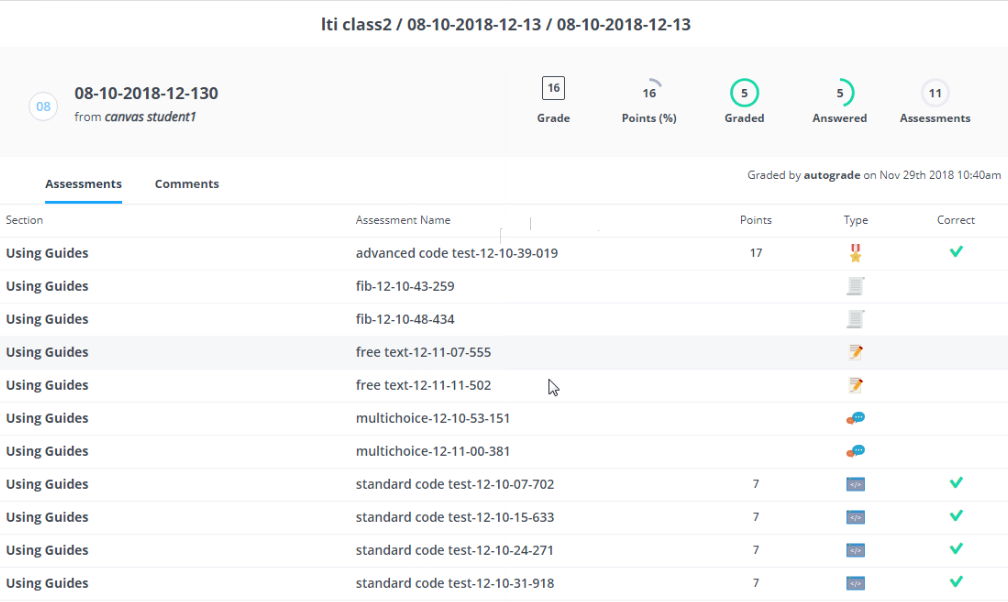
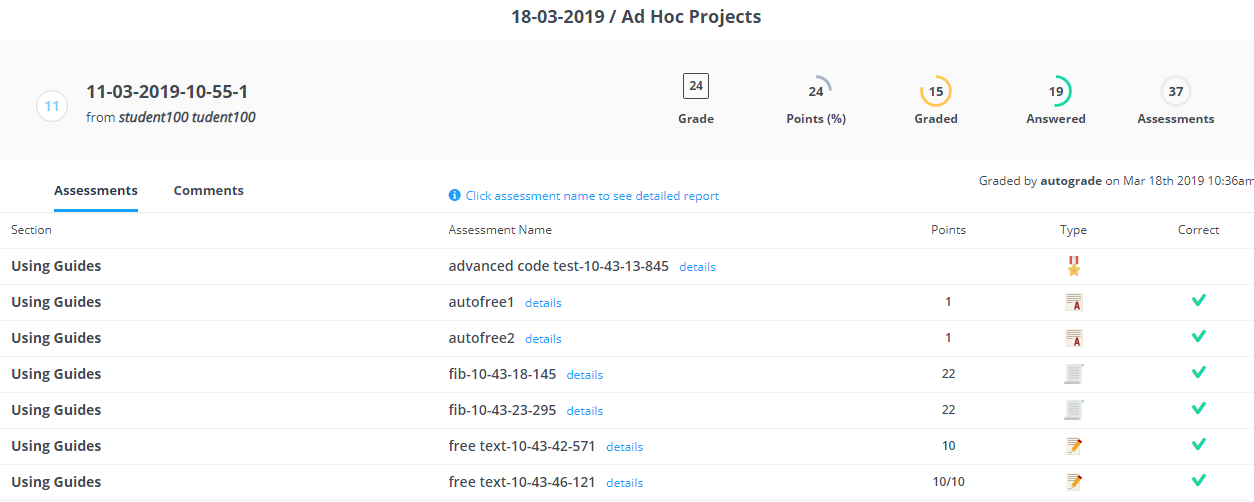
changelog #10290 #10317, update feedback image

diff --git a/source/docs/misc/changelog.html.md b/source/docs/misc/changelog.html.md
@@ -13,6 +13,8 @@ We do not report small bug fixes or issues that affect individual users, who we 
 
 **March 2019**
 
+- `[I] [20th]`: Improve handling of adding teachers to class
+- `[I] [19th]`: Fix problem with teachers not able to access students projects after deadline passed
 - `[I] [15th]`: Fix problem for student feedback when unit running in iFrame
 - `[I] [15th]`: Fix issue with students able to start units after deadline is past
 - `[I] [15th]`: Remove menu item "Submit Jupyter assessments" from jupyter units
@@ -97,10 +99,12 @@ We do not report small bug fixes or issues that affect individual users, who we 
 - `[I] [14th]`: Add additional fields for students answers into the [download csv](/docs/classes/monitor/progress#downloadcsv)
 - `[I] [11th]`: Improve handling of [gigabox](/docs/classes/classmanagement/giga/) allocation when run from a course
 - `[I] [10th]`: Fix problem with Advanced Code Test with Custom language type and Allow Partial Points
-- `[I] [ 7th]`: Add answer and rationale fields to [grading feedback](/docs/dashboard/student/gradefeeback) for student dashboard
+- `[I] [ 7th]`: Add answer and rationale fields to [grading feedback](/docs/dashboard/student/gradefeedback) for student dashboard
 - `[I] [ 6th]`: Fix problem with global scripts in guides
-- `[I] [ 5th]`: Improve [grading feedback](/docs/dashboard/student/gradefeeback) for student dashboard
+- `[I] [ 5th]`: Improve [grading feedback](/docs/dashboard/student/gradefeedback) for student dashboard
 - `[I] [ 4th]`: Improve messaging when synchronising of files pulled/pushed to [desktop app](/docs/dashboard/desktopapp)
+
+
 
 **November 2018**
 

diff --git a/source/docs/classes/monitor/nbgrader.html.md b/source/docs/classes/monitor/nbgrader.html.md
@@ -19,7 +19,7 @@ if a `.codio-jupyter` file exists in a project we assume it is **jupyter** based
 
 When the unit is published to a class, either as an [individual project](/docs/classes/unitmanagement/assign-project) or as part of a [course/module](/docs/classes/unitmanagement/assign-module), the release version is created for the student.
 
-When the student submits the assignment by marking the unit as complete, it will be autograded automatically.
+When the student submits the assignment by marking the unit as complete, it will be [autograded](/docs/classes/unitmanagement/settings-info/autograde) automatically.
 
 [Manual grading](/docs/classes/monitor/grading/) is also available if required
 

diff --git a/source/docs/dashboard/student/gradefeedback.html.md b/source/docs/dashboard/student/gradefeedback.html.md
@@ -16,7 +16,7 @@ or click on the 'Grade' field showing in the dashboard
 
 <img alt="access grades" src="/img/docs/accessgrades.png" class="simple"/>
 
-Click on entries and you can drill down to see more information where available
+Click on 'details' for the assessment and you can drill down to see more information on that assessment
 
 <img alt="grade detail" src="/img/docs/gradedetail.png" class="simple"/>
 
